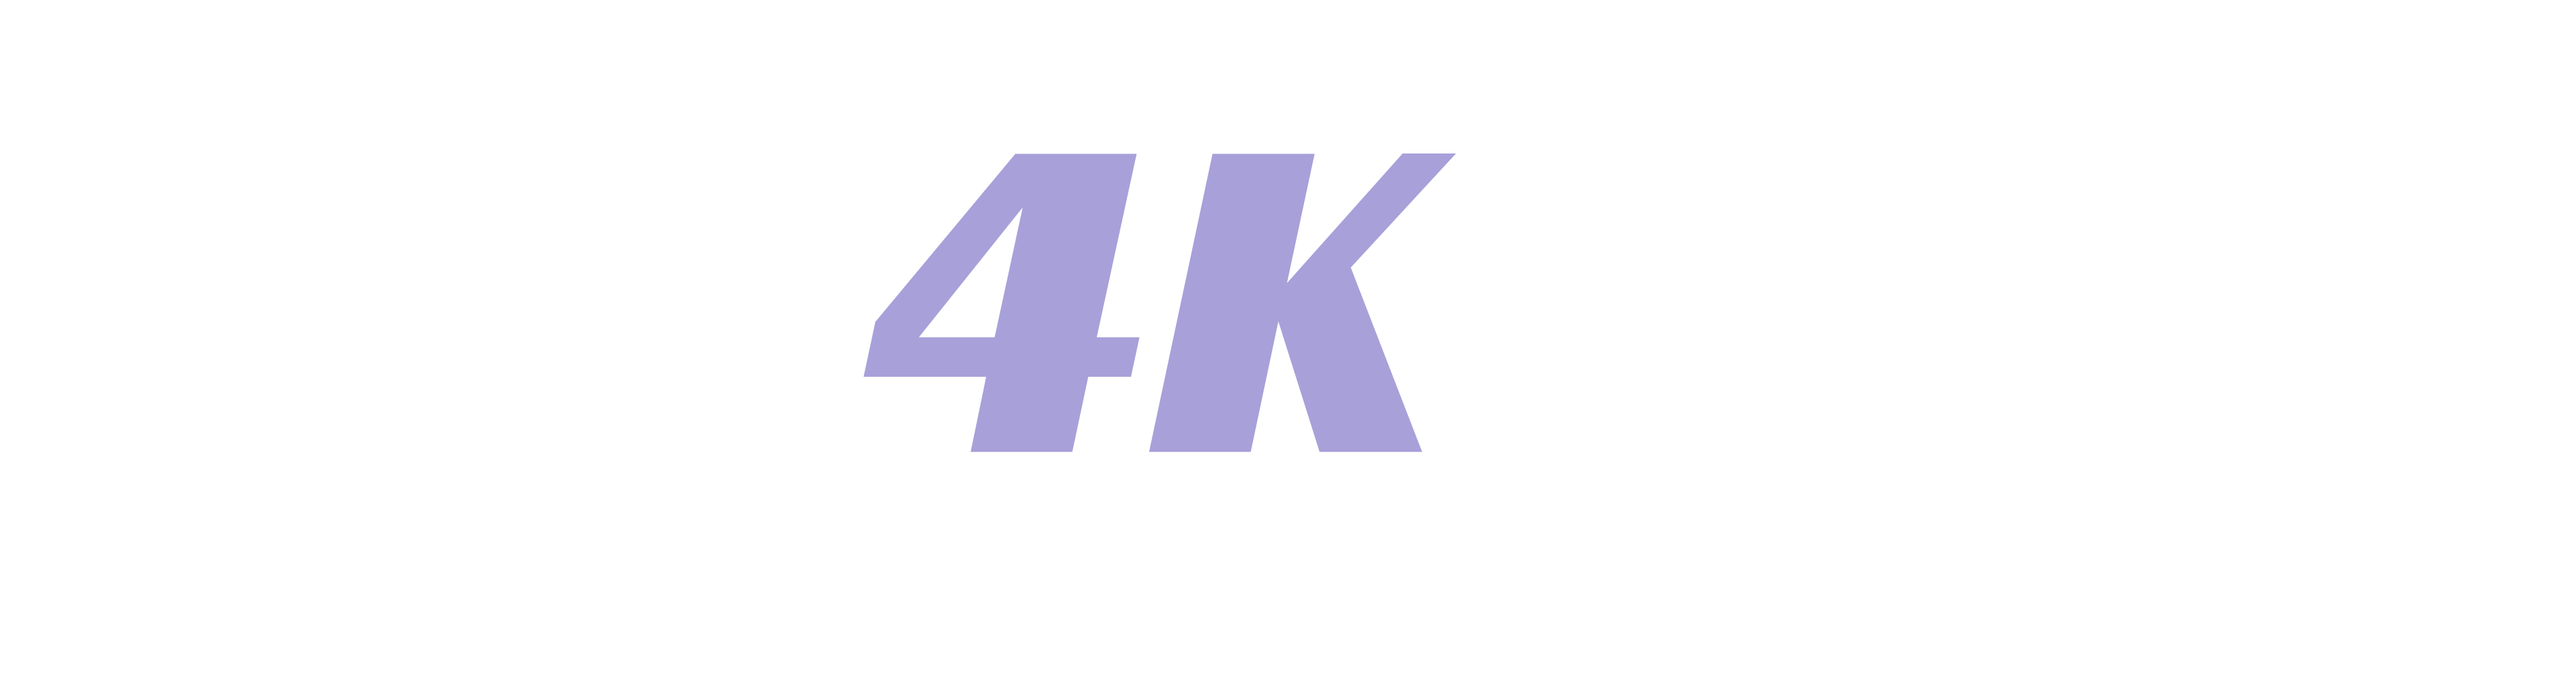
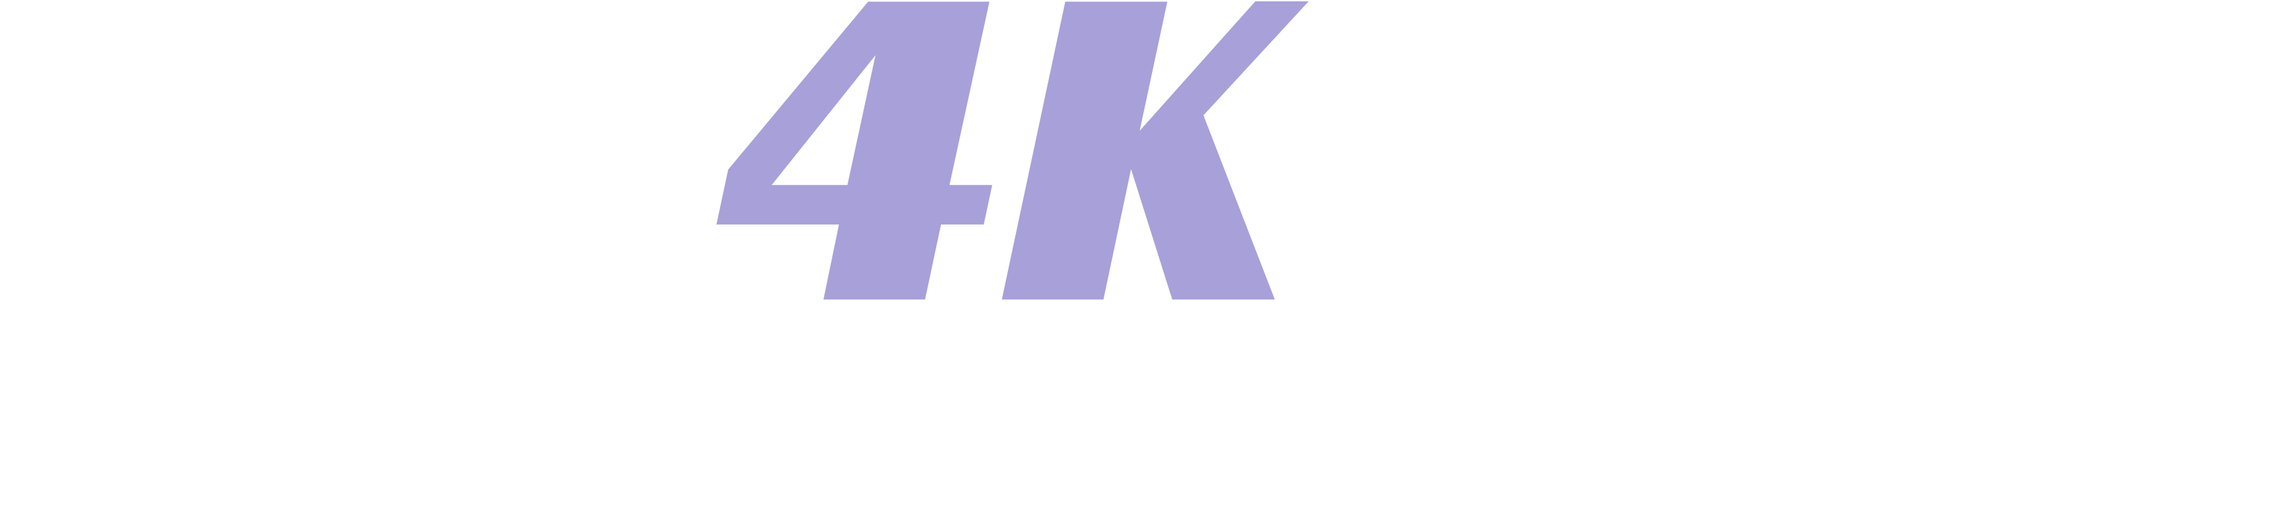
Улучшение устойчивости к ошибкам вывода ffmpeg и наложения водяного знака

Changed region(s): [[0.3102, 0.0, 0.5894, 0.6813]]

diff --git a/watermark_script_updated.py b/watermark_script_updated.py
@@ -252,7 +252,15 @@ def run_ffmpeg_with_progress(command, total_duration):
     """
     progress_bar = tqdm.tqdm(total=int(total_duration), unit="s", desc="Обработка видео", dynamic_ncols=True)
     try:
-        process = subprocess.Popen(command, stderr=subprocess.PIPE, universal_newlines=True, bufsize=1)
+        # Явно указываем кодировку и обработку ошибок
+        process = subprocess.Popen(
+            command,
+            stderr=subprocess.PIPE,
+            universal_newlines=True,
+            bufsize=1,
+            encoding='utf-8',       # Используем UTF-8
+            errors='replace'         # Заменяем неподдерживаемые символы
+        )
         fps = 0  # Начальное значение FPS
         for line in process.stderr:
             # Ищем строку с прогрессом (время обработки)
@@ -300,12 +308,23 @@ def process_video_with_watermark(input_file, base_name, codec, duration, audio_b
     ffmpeg_command = [
         "ffmpeg",
         "-hwaccel", "cuda",
-        '-c:v', 'auto' if codec not in ['hevc', 'h264'] else 'hevc_cuvid' if codec == 'hevc' else 'h264_cuvid',
+        "-c:v", (
+            "auto" if codec not in ["hevc", "h264"]
+            else "hevc_cuvid" if codec == "hevc"
+            else "h264_cuvid"
+        ),
         "-i", input_file,
         "-i", static_watermark,
         "-pix_fmt", "yuv420p10le",
         "-color_range", color_range,
-        "-filter_complex", "[1:v]scale=iw*0.09:ih*0.09[wm];[0:v][wm]overlay=x='main_w-w-68':y='64':format=auto,gradfun=2.5:24,format=yuv420p10le",
+        "-filter_complex", (
+            "[1:v]scale=iw*0.09:ih*0.09,"
+            "format=rgba,colorchannelmixer=aa=1[watermark];"
+            "[0:v][watermark]overlay="
+            "x='max(main_w - w - (w/3.5), 0)':"
+            "y='max((w/2.5) - (h/2), 0)':"
+            "format=auto"
+        ),
         "-c:v", "hevc_nvenc",
         "-preset", "p7",
         "-profile:v", "main10",
@@ -316,7 +335,7 @@ def process_video_with_watermark(input_file, base_name, codec, duration, audio_b
         "-aq-strength", "15",  # Улучшает качество сложных текстур
         "-spatial-aq", "1",  # Улучшает статичные сцены
         "-temporal-aq", "1",  # Улучшает динамические сцены
-        "-rc-lookahead", "32",  # Глубокий анализ сцен для лучшего качества
+        "-rc-lookahead", "64",  # Глубокий анализ сцен для лучшего качества
         "-colorspace", color_space,
         "-color_primaries", color_primaries,
         "-color_trc", color_trc,
@@ -404,7 +423,11 @@ def process_video_without_watermark(input_file, base_name, codec, duration, audi
 
     ffmpeg_command = [
         "ffmpeg",
-        '-c:v', 'auto' if codec not in ['hevc', 'h264'] else 'hevc_cuvid' if codec == 'hevc' else 'h264_cuvid',
+        "-c:v", (
+            "auto" if codec not in ["hevc", "h264"]
+            else "hevc_cuvid" if codec == "hevc"
+            else "h264_cuvid"
+        ),
         "-i", input_file,
         "-c:v", "hevc_nvenc",
         "-preset", "p7",
